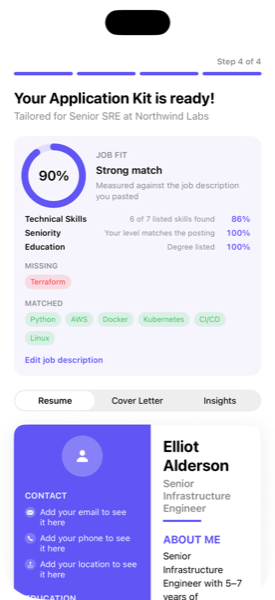
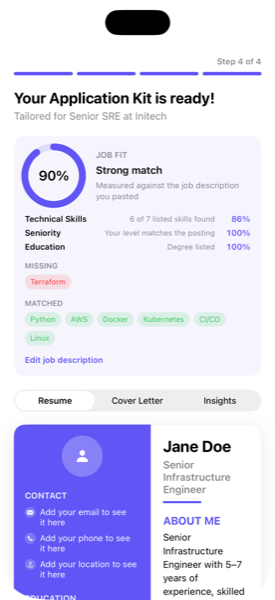
Replace all demo data with unmistakable placeholders
Every name, employer, school and contact detail in the previews — and therefore
in the README screenshots — is now something that cannot belong to a real
person: Jane Doe, example.com (RFC 2606), the reserved 555-01xx phone range,
Anytown USA, and the stock fictional companies Acme, Globex and Initech.

The previous fixtures were invented, not taken from anyone, but names like
"Jamie Chen" with a matching linkedin.com handle are plausible enough to be
somebody, and these images sit on a public project page.

Empty-state placeholders in the preview card now read "Your Name" / "Your Role"
/ "your key skills" instead of standing in a fake person, which is clearer about
being a placeholder anyway.

Regenerated all four screenshots from the updated previews and renderers.

Also fixes a layout bug the regeneration exposed: the preview card's sidebar was
a hard-coded 200pt, which on a phone-width container took 57% of the card and
squeezed the main column to roughly 110pt, where achievement bullets truncated
mid-word. It's now flexible (130–190pt), so bullets wrap in full and the
proportions sit closer to the exported PDF's 31% sidebar.

Changed region(s): [[0.5818, 0.72, 0.9018, 1.0], [0.4945, 0.18, 0.7564, 0.21]]

diff --git a/Rolvexa/Views/ResumeKit/ResumeTemplateCard.swift b/Rolvexa/Views/ResumeKit/ResumeTemplateCard.swift
@@ -184,7 +184,11 @@ struct ResumeTemplateCard: View {
             Spacer(minLength: 0)
         }
         .padding(16)
-        .frame(width: 200, alignment: .leading)
+        // Flexible rather than a hard 200pt. Fixed, it took 57% of the card on a phone-width
+        // container and squeezed the main column to roughly 110pt, where achievement bullets
+        // truncated mid-word. The exported PDF uses 31% of the page, so this also brings the
+        // preview's proportions closer to the file it's previewing.
+        .frame(minWidth: 130, idealWidth: 170, maxWidth: 190, alignment: .leading)
         .frame(maxHeight: .infinity)
         .background(Color.indigo)
     }
@@ -493,42 +497,42 @@ struct ResumeTemplateCard: View {
 #Preview {
     ScrollView {
     ResumeTemplateCard(
-        name: "Jamie Chen",
-        role: "Senior Product Designer",
-        summary: "Senior Product Designer with 5–7 years of experience, skilled in Product Design, Figma, User Research. Seeking to bring this expertise to the Senior Product Designer role at Northwind Labs.",
-        skills: ["Product Design", "Figma", "User Research"],
+        name: "Jane Doe",
+        role: "Operations Manager",
+        summary: "Operations Manager with 5–7 years of experience, skilled in Process Design, Vendor Management, Reporting. Seeking to bring this expertise to the Senior Operations Manager role at Initech.",
+        skills: ["Process Design", "Vendor Management", "Reporting"],
         yearsOfExperience: "5–7 years",
-        experienceBullets: ["Led design for a resume-building app", "Improved onboarding conversion by 20%"],
-        email: "jamie@example.com",
-        phone: "555-0100",
-        location: "San Francisco, CA",
+        experienceBullets: ["Cut supplier onboarding time from 14 days to 5", "Reduced recurring maintenance spend by 18%"],
+        email: "jane.doe@example.com",
+        phone: "(555) 010-0100",
+        location: "Anytown, USA",
         // Obvious placeholders rather than plausible handles: this preview is the source of a
         // screenshot in the README, and "linkedin.com/in/jamiechen" is likely a real person's
         // profile to put on a stranger's project page.
         links: ["www.linkedin.com/in/your-name", "github.com/your-name"],
-        education: "BA Interaction Design\nCalifornia College of the Arts, San Francisco, CA\nMay 2017",
+        education: "BSc Business Administration\nState University, Anytown, USA\nMay 2017",
         positions: [
             {
                 var entry = WorkExperienceEntry()
-                entry.title = "Senior Product Designer"
-                entry.company = "Northwind Labs"
-                entry.location = "San Francisco, CA"
+                entry.title = "Operations Manager"
+                entry.company = "Acme Corporation"
+                entry.location = "Anytown, USA"
                 entry.startDate = "Mar 2021"
                 entry.isCurrent = true
                 entry.bullets = [
-                    "Led design for a resume-building app used by 40k people",
-                    "Improved onboarding conversion by 20%"
+                    "Cut supplier onboarding time from 14 days to 5",
+                    "Reduced recurring maintenance spend by 18%"
                 ]
                 return entry
             }(),
             {
                 var entry = WorkExperienceEntry()
-                entry.title = "Product Designer"
-                entry.company = "Gridline"
-                entry.location = "Oakland, CA"
+                entry.title = "Operations Analyst"
+                entry.company = "Globex Inc."
+                entry.location = "Anytown, USA"
                 entry.startDate = "Jun 2017"
                 entry.endDate = "Feb 2021"
-                entry.bullets = ["Shipped a design system adopted by four product teams"]
+                entry.bullets = ["Standardised reporting across four regional sites"]
                 return entry
             }()
         ]
@@ -539,15 +543,15 @@ struct ResumeTemplateCard: View {
 
 #Preview("Minimal Pro") {
     ResumeTemplateCard(
-        name: "Jamie Chen",
-        role: "Senior Product Designer",
-        summary: "Senior Product Designer with 5–7 years of experience, skilled in Product Design, Figma, User Research.",
-        skills: ["Product Design", "Figma", "User Research"],
+        name: "Jane Doe",
+        role: "Operations Manager",
+        summary: "Operations Manager with 5–7 years of experience, skilled in Process Design, Vendor Management, Reporting.",
+        skills: ["Process Design", "Vendor Management", "Reporting"],
         yearsOfExperience: "5–7 years",
-        experienceBullets: ["Led design for a resume-building app", "Improved onboarding conversion by 20%"],
-        email: "jamie@example.com",
-        phone: "555-0100",
-        location: "San Francisco, CA",
+        experienceBullets: ["Cut supplier onboarding time from 14 days to 5", "Reduced recurring maintenance spend by 18%"],
+        email: "jane.doe@example.com",
+        phone: "(555) 010-0100",
+        location: "Anytown, USA",
         style: .minimalPro
     )
     .padding(20)
@@ -555,15 +559,15 @@ struct ResumeTemplateCard: View {
 
 #Preview("Creative Bold") {
     ResumeTemplateCard(
-        name: "Jamie Chen",
-        role: "Senior Product Designer",
-        summary: "Senior Product Designer with 5–7 years of experience, skilled in Product Design, Figma, User Research.",
-        skills: ["Product Design", "Figma", "User Research"],
+        name: "Jane Doe",
+        role: "Operations Manager",
+        summary: "Operations Manager with 5–7 years of experience, skilled in Process Design, Vendor Management, Reporting.",
+        skills: ["Process Design", "Vendor Management", "Reporting"],
         yearsOfExperience: "5–7 years",
-        experienceBullets: ["Led design for a resume-building app", "Improved onboarding conversion by 20%"],
-        email: "jamie@example.com",
-        phone: "555-0100",
-        location: "San Francisco, CA",
+        experienceBullets: ["Cut supplier onboarding time from 14 days to 5", "Reduced recurring maintenance spend by 18%"],
+        email: "jane.doe@example.com",
+        phone: "(555) 010-0100",
+        location: "Anytown, USA",
         style: .creativeBold
     )
     .padding(20)
@@ -571,15 +575,15 @@ struct ResumeTemplateCard: View {
 
 #Preview("Executive Suite") {
     ResumeTemplateCard(
-        name: "Jamie Chen",
-        role: "Senior Product Designer",
-        summary: "Senior Product Designer with 5–7 years of experience, skilled in Product Design, Figma, User Research.",
-        skills: ["Product Design", "Figma", "User Research"],
+        name: "Jane Doe",
+        role: "Operations Manager",
+        summary: "Operations Manager with 5–7 years of experience, skilled in Process Design, Vendor Management, Reporting.",
+        skills: ["Process Design", "Vendor Management", "Reporting"],
         yearsOfExperience: "5–7 years",
-        experienceBullets: ["Led design for a resume-building app", "Improved onboarding conversion by 20%"],
-        email: "jamie@example.com",
-        phone: "555-0100",
-        location: "San Francisco, CA",
+        experienceBullets: ["Cut supplier onboarding time from 14 days to 5", "Reduced recurring maintenance spend by 18%"],
+        email: "jane.doe@example.com",
+        phone: "(555) 010-0100",
+        location: "Anytown, USA",
         style: .executiveSuite
     )
     .padding(20)

diff --git a/Rolvexa/Views/ResumeKit/ResumeKitView.swift b/Rolvexa/Views/ResumeKit/ResumeKitView.swift
@@ -241,11 +241,11 @@ struct ResumeKitView: View {
     }
 
     private var displayName: String {
-        appState.experience.fullName.isEmpty ? "Jamie Chen" : appState.experience.fullName
+        appState.experience.fullName.isEmpty ? "Your Name" : appState.experience.fullName
     }
 
     private var displayRole: String {
-        appState.experience.currentRole.isEmpty ? "Product Designer" : appState.experience.currentRole
+        appState.experience.currentRole.isEmpty ? "Your Role" : appState.experience.currentRole
     }
 
     private var displayCompany: String {
@@ -261,7 +261,7 @@ struct ResumeKitView: View {
     }
 
     private var displaySkills: String {
-        appState.experience.skills.isEmpty ? "product design, user research, and prototyping" : appState.experience.skills.joined(separator: ", ")
+        appState.experience.skills.isEmpty ? "your key skills" : appState.experience.skills.joined(separator: ", ")
     }
 
     /// Mirrors `coverLetterExportText()` so the on-screen cover letter and the downloaded one
@@ -350,7 +350,7 @@ struct ResumeKitView: View {
                 name: displayName,
                 role: displayRole,
                 summary: displaySummary,
-                skills: appState.experience.skills.isEmpty ? ["Product Design", "Figma", "User Research"] : appState.experience.skills,
+                skills: appState.experience.skills.isEmpty ? ["Your first skill", "Your second skill"] : appState.experience.skills,
                 yearsOfExperience: appState.experience.yearsOfExperience,
                 experienceBullets: experienceBullets,
                 email: appState.experience.email.isEmpty ? nil : appState.experience.email,
@@ -467,12 +467,12 @@ struct ResumeKitView: View {
 #Preview("Kit — with job description") {
     let state = AppState()
     state.buildSource = .write
-    state.experience.fullName = "Elliot Alderson"
+    state.experience.fullName = "Jane Doe"
     state.experience.currentRole = "Senior Infrastructure Engineer"
     state.experience.skills = ["Python", "Linux", "Kubernetes", "Docker", "AWS", "CI/CD"]
     var job = WorkExperienceEntry()
     job.title = "Senior Infrastructure Engineer"
-    job.company = "Allsafe"
+    job.company = "Acme Corporation"
     job.startDate = "2019"
     job.isCurrent = true
     job.bullets = ["Ran containerised services on Kubernetes across three AWS regions",
@@ -480,12 +480,12 @@ struct ResumeKitView: View {
     state.experience.positions = [job]
     var school = EducationEntry()
     school.degree = "BSc Computer Science"
-    school.school = "New York University"
+    school.school = "State University"
     state.experience.educationEntries = [school]
     state.jobTarget.title = "Senior SRE"
-    state.jobTarget.company = "Northwind Labs"
+    state.jobTarget.company = "Initech"
     state.jobTarget.descriptionText = """
-    Senior Site Reliability Engineer — Northwind Labs
+    Senior Site Reliability Engineer — Initech
     You will run services on Kubernetes, manage infrastructure with Terraform, and automate
     deployments through CI/CD pipelines on AWS. Python and Linux required. Docker essential.
     Reliability and compliance are central to this platform. Bachelor degree preferred.

diff --git a/Rolvexa/Views/InputExperience/InputExperienceView.swift b/Rolvexa/Views/InputExperience/InputExperienceView.swift
@@ -224,14 +224,14 @@ struct InputExperienceView: View {
 
         return Group {
             LabeledField(title: "Full Name") {
-                TextField("e.g. Jamie Chen", text: $appState.experience.fullName)
+                TextField("e.g. Jane Doe", text: $appState.experience.fullName)
                     .textFieldStyle(.roundedInput)
                     .focused($focusedField, equals: .fullName)
             }
             .id(Field.fullName)
 
             LabeledField(title: "Current Role / Most Recent Title") {
-                TextField("e.g. Senior Product Designer", text: $appState.experience.currentRole)
+                TextField("e.g. Operations Manager", text: $appState.experience.currentRole)
                     .textFieldStyle(.roundedInput)
                     .focused($focusedField, equals: .currentRole)
             }

diff --git a/Rolvexa/Views/ResumeReview/ResumeReviewView.swift b/Rolvexa/Views/ResumeReview/ResumeReviewView.swift
@@ -185,7 +185,7 @@ struct ResumeReviewView: View {
     // Populated with a real breakdown and suggestions: with empty arrays this preview rendered
     // an almost blank screen, which is no use for spotting layout problems.
     let state = AppState()
-    state.uploadedFileName = "Jamie_Chen_Resume.pdf"
+    state.uploadedFileName = "Jane_Doe_Resume.pdf"
     state.resumeReview = ResumeReview(
         overallScore: 78,
         breakdown: [
